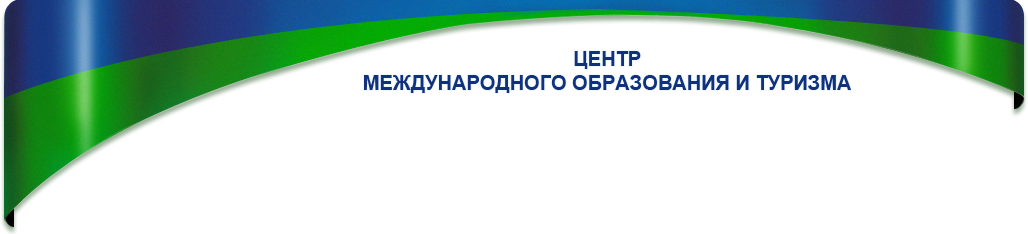
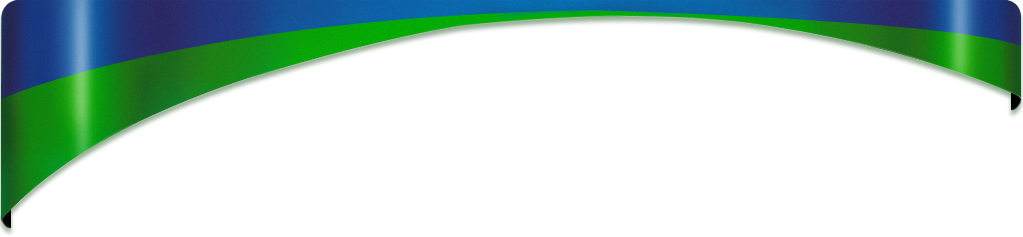
added org name div and css for it

diff --git a/css/style.css b/css/style.css
@@ -42,6 +42,18 @@ fieldset{
 	width: 1022px;
 	z-index: 100;
 }
+	.orgname{
+		display: block;
+		font-size: 20px;
+		font-weight: bold;
+		left: 350px;
+		position: absolute;
+		text-align: center;
+		text-shadow: #FFF 1px 0 0, #FFF 0 1px 0, #FFF -1px 0 0, #FFF 0 -1px 0;
+		text-transform: uppercase;
+		top: 50px;
+		max-width: 500px;
+	}
 	.logo{
 		background-image: url(../img/logo.png);
 		background-position: center top;

diff --git a/block/top.php b/block/top.php
@@ -1,0 +1,12 @@
+	<div class="head">
+		<div class="orgname">Центр международного&nbsp;образования&nbsp;и&nbsp;туризма</div>
+		<div class="logo">
+			<a href="http://nggu.ru" target="__blank"></a>
+		</div>
+		<div class="contacts">
+			<div class="citycode"></div>
+			<div class="phone"></div>
+			<address></address>
+		</div>
+	</div>
+	<div class="maindiv">

diff --git a/block/header.php b/block/header.php
@@ -14,14 +14,3 @@
 	<script type="text/javascript" src="/ckeditor/ckeditor.js"></script>
 </head>
 <body>
-	<div class="head">
-		<div class="logo">
-			<a href="http://nggu.ru" target="__blank"></a>
-		</div>
-		<div class="contacts">
-			<div class="citycode"></div>
-			<div class="phone"></div>
-			<address></address>
-		</div>
-	</div>
-	<div class="maindiv">

diff --git a/index.php b/index.php
@@ -3,6 +3,7 @@ require_once 'block/db.php';
 require_once 'block/phpfunlib.php';
 require_once 'block/header.php';
 
+require_once 'block/top.php';
 /*if(isset($_GET['page'])){
 	if(0 === strpos($_GET['page'], '/admin')){
 		session_start();
